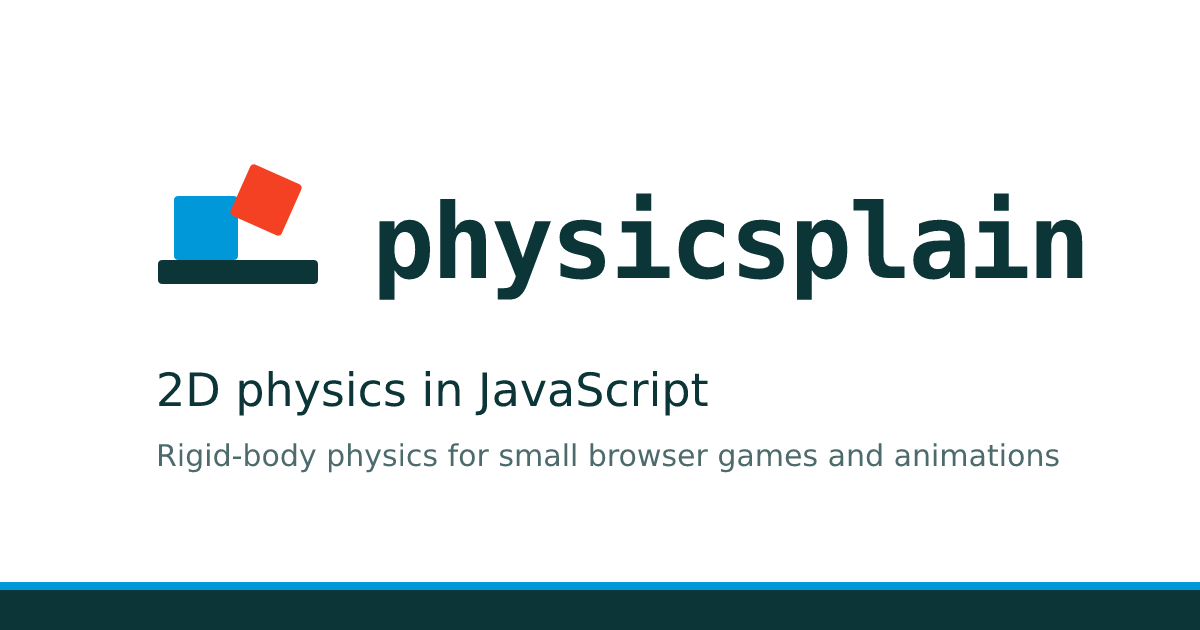
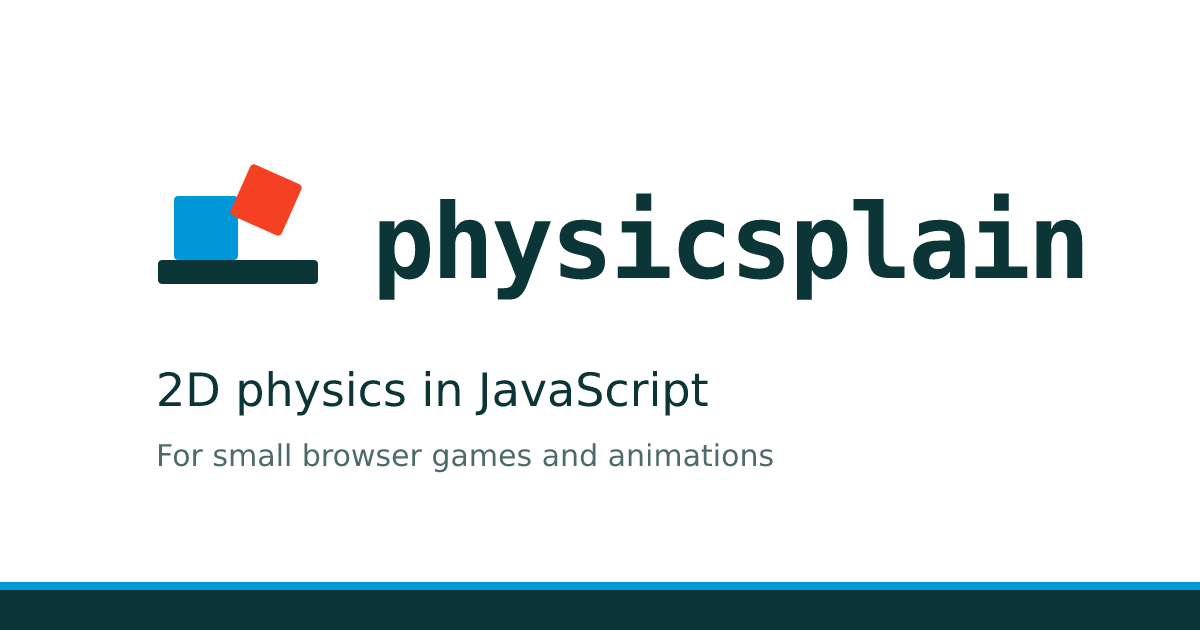
Use one plain description of physicsplain everywhere
The page, its meta tags and package.json now all say that physicsplain
is a simple 2D physics library written in JavaScript, intended for small
browser games and animations. The preview image drops "rigid-body" and
keeps the tagline "2D physics in JavaScript".

Example 4's caption names the wall and floor as fixed, one-way lines,
and the footer sentence is fixed.

Changed region(s): [[0.1233, 0.6937, 0.8942, 0.754]]

diff --git a/index.html b/index.html
@@ -4,7 +4,7 @@
         <meta charset="UTF-8">
         <meta name="viewport" content="width=device-width, initial-scale=1.0">
         <title>physicsplain &ndash; 2D physics in JavaScript</title>
-        <meta name="description" content="physicsplain is a simple 2D physics library written in JavaScript, intended for small browser games and animations.">
+        <meta name="description" content="physicsplain is a simple 2D physics library written in JavaScript. The library is intended for small browser games and animations.">
         <meta name="color-scheme" content="light dark">
         <meta name="theme-color" content="#ffffff" media="(prefers-color-scheme: light)">
         <meta name="theme-color" content="#0b3536" media="(prefers-color-scheme: dark)">
@@ -16,13 +16,13 @@
         <meta property="og:type" content="website">
         <meta property="og:site_name" content="physicsplain">
         <meta property="og:title" content="physicsplain &ndash; 2D physics in JavaScript">
-        <meta property="og:description" content="physicsplain is a simple 2D physics library written in JavaScript, intended for small browser games and animations.">
+        <meta property="og:description" content="physicsplain is a simple 2D physics library written in JavaScript. The library is intended for small browser games and animations.">
         <meta property="og:url" content="https://hemartin.github.io/physicsplain/">
         <meta property="og:image" content="https://hemartin.github.io/physicsplain/assets/social.png">
         <meta property="og:image:type" content="image/png">
         <meta property="og:image:width" content="1200">
         <meta property="og:image:height" content="630">
-        <meta property="og:image:alt" content="The physicsplain logo, a blue box and a tumbling red box on the ground, next to the name and the tagline 2D physics in JavaScript.">
+        <meta property="og:image:alt" content="The physicsplain logo, a blue box and a tumbling red box on the ground, with the text &ldquo;physicsplain &ndash; 2D physics in JavaScript&rdquo; and &ldquo;For small browser games and animations&rdquo;.">
         <meta property="og:locale" content="en_US">
 
         <script type="module" src="main.js"></script>
@@ -39,7 +39,7 @@
                     <h1 class="wordmark">physicsplain</h1>
                 </div>
                 <p class="tagline">2D physics in JavaScript</p>
-                <p class="lede">physicsplain is a simple 2D physics library written in JavaScript.  The library is intended for small browser games and animations.</p>
+                <p class="lede">physicsplain is a simple 2D physics library written in JavaScript. The library is intended for small browser games and animations.</p>
                 <div class="actions">
                     <a class="button" href="https://github.com/hemartin/physicsplain">
                         <svg viewBox="0 0 16 16" fill="currentColor" aria-hidden="true"><path d="M8 0C3.58 0 0 3.58 0 8c0 3.54 2.29 6.53 5.47 7.59.4.07.55-.17.55-.38 0-.19-.01-.82-.01-1.49-2.01.37-2.53-.49-2.69-.94-.09-.23-.48-.94-.82-1.13-.28-.15-.68-.52-.01-.53.63-.01 1.08.58 1.23.82.72 1.21 1.87.87 2.33.66.07-.52.28-.87.51-1.07-1.78-.2-3.64-.89-3.64-3.95 0-.87.31-1.59.82-2.15-.08-.2-.36-1.02.08-2.12 0 0 .67-.21 2.2.82.64-.18 1.32-.27 2-.27.68 0 1.36.09 2 .27 1.53-1.04 2.2-.82 2.2-.82.44 1.1.16 1.92.08 2.12.51.56.82 1.27.82 2.15 0 3.07-1.87 3.75-3.65 3.95.29.25.54.73.54 1.48 0 1.07-.01 1.93-.01 2.2 0 .21.15.46.55.38A8.013 8.013 0 0016 8c0-4.42-3.58-8-8-8z"/></svg>
@@ -75,10 +75,10 @@
                 </figure>
 
                 <figure class="example">
-                    <canvas id="canvas4" width="500" height="260" role="img" aria-label="Animation: objects bouncing off fixed lines"></canvas>
+                    <canvas id="canvas4" width="500" height="260" role="img" aria-label="Animation: objects bouncing off a wall and a floor made of fixed, one-way lines"></canvas>
                     <figcaption>
                         <h2>Example 4</h2>
-                        <p>Bouncing off fixed lines.</p>
+                        <p>Bouncing off a wall and a floor made of fixed, one-way lines.</p>
                     </figcaption>
                 </figure>
             </main>
@@ -86,7 +86,7 @@
             <footer class="footer">
                 <div>
                     <h2>More Information</h2>
-                    <p>For more information go to <a href="https://github.com/hemartin/physicsplain">this project's GitHub page</a>.</p>
+                    <p>For more information, see <a href="https://github.com/hemartin/physicsplain">physicsplain on GitHub</a>.</p>
                 </div>
             </footer>
         </div>
